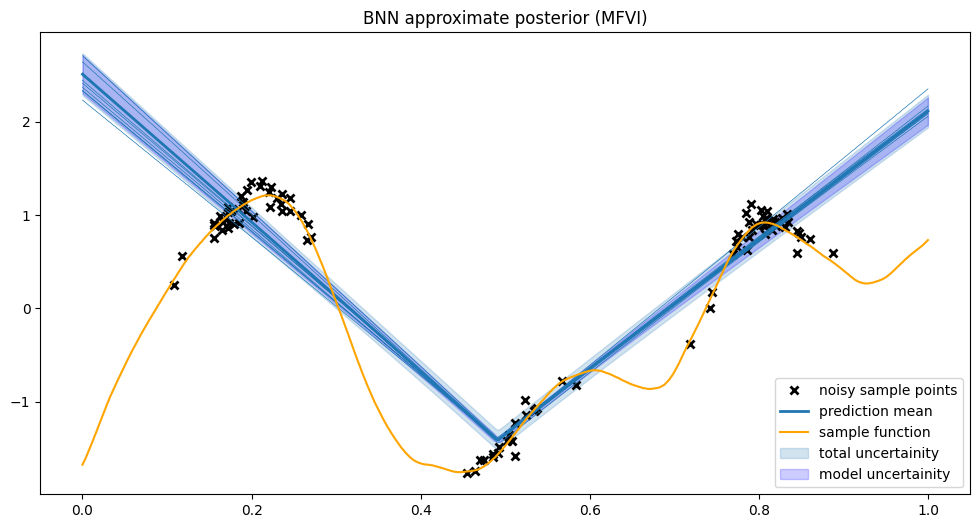
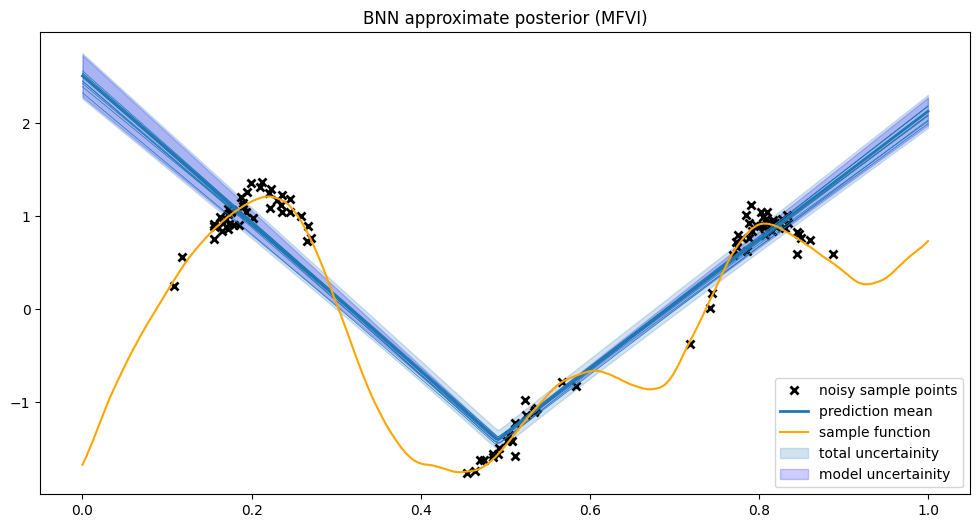
bbn exp

diff --git a/bayes_approx/gp_reg_experiments/bnn_gp_toy.py b/bayes_approx/gp_reg_experiments/bnn_gp_toy.py
@@ -243,23 +243,23 @@ if __name__ == "__main__":
     #                 likelihood_std=0.005, prior_weight_std=2.0, prior_bias_std=5.0)
 
     # full_training(exp_name='bnn_vague_initpriorNL1', n_epochs=60000,
-    #               num_layers=1, h_dim=50, activation='relu', init_std='prior',
+    #               num_layers=1, h_dim=50, activation='relu', init_std=0.05,
     #               likelihood_std=0.05, prior_weight_std=1.0, prior_bias_std=1.0)
-    # full_training(exp_name='bnn_vague_initpriorNL2', n_epochs=60000,
-    #               num_layers=2, h_dim=50, activation='relu', init_std='prior',
+    # full_training(exp_name='bnn_vague_0.05priorNL2', n_epochs=60000,
+    #               num_layers=2, h_dim=50, activation='relu', init_std=0.05,
     #               likelihood_std=0.05, prior_weight_std=1.0, prior_bias_std=1.0)
-    # full_training(exp_name='bnn_vague_initpriorNL3', n_epochs=60000,
-    #               num_layers=3, h_dim=50, activation='relu', init_std='prior',
+    # full_training(exp_name='bnn_vague_0.05priorNL3', n_epochs=60000,
+    #               num_layers=3, h_dim=50, activation='relu', init_std=0.05,
     #               likelihood_std=0.05, prior_weight_std=1.0, prior_bias_std=1.0)
-    # full_training(exp_name='bnn_vague_initpriorNL4', n_epochs=60000,
-    #               num_layers=4, h_dim=50, activation='relu', init_std='prior',
-    #               likelihood_std=0.05, prior_weight_std=1.0, prior_bias_std=1.0)
-    # full_training(exp_name='bnn_vague_initpriorNL5', n_epochs=60000,
-    #               num_layers=5, h_dim=50, activation='relu', init_std='prior',
-    #               likelihood_std=0.05, prior_weight_std=1.0, prior_bias_std=1.0)
-    load_test_model(exp_name='bnn_vague_initpriorNL1', n_epochs=60000,
-                    num_layers=1, h_dim=50, activation='relu', init_std='prior',
-                    likelihood_std=0.05, prior_weight_std=1.0, prior_bias_std=1.0)
-    load_test_model(exp_name='bnn_vague_initpriorNL2', n_epochs=60000,
-                    num_layers=2, h_dim=50, activation='relu', init_std='prior',
-                    likelihood_std=0.05, prior_weight_std=1.0, prior_bias_std=1.0)
+    full_training(exp_name='bnn_vague_0.05priorNL4', n_epochs=60000,
+                  num_layers=4, h_dim=50, activation='relu', init_std=0.05,
+                  likelihood_std=0.05, prior_weight_std=1.0, prior_bias_std=1.0)
+    full_training(exp_name='bnn_vague_0.05priorNL5', n_epochs=60000,
+                  num_layers=5, h_dim=50, activation='relu', init_std=0.05,
+                  likelihood_std=0.05, prior_weight_std=1.0, prior_bias_std=1.0)
+    # load_test_model(exp_name='bnn_vague_initpriorNL1', n_epochs=60000,
+    #                 num_layers=1, h_dim=50, activation='relu', init_std=0.05,
+    #                 likelihood_std=0.05, prior_weight_std=1.0, prior_bias_std=1.0)
+    # load_test_model(exp_name='bnn_vague_initpriorNL2', n_epochs=60000,
+    #                 num_layers=2, h_dim=50, activation='relu', init_std=0.05,
+    #                 likelihood_std=0.05, prior_weight_std=1.0, prior_bias_std=1.0)
